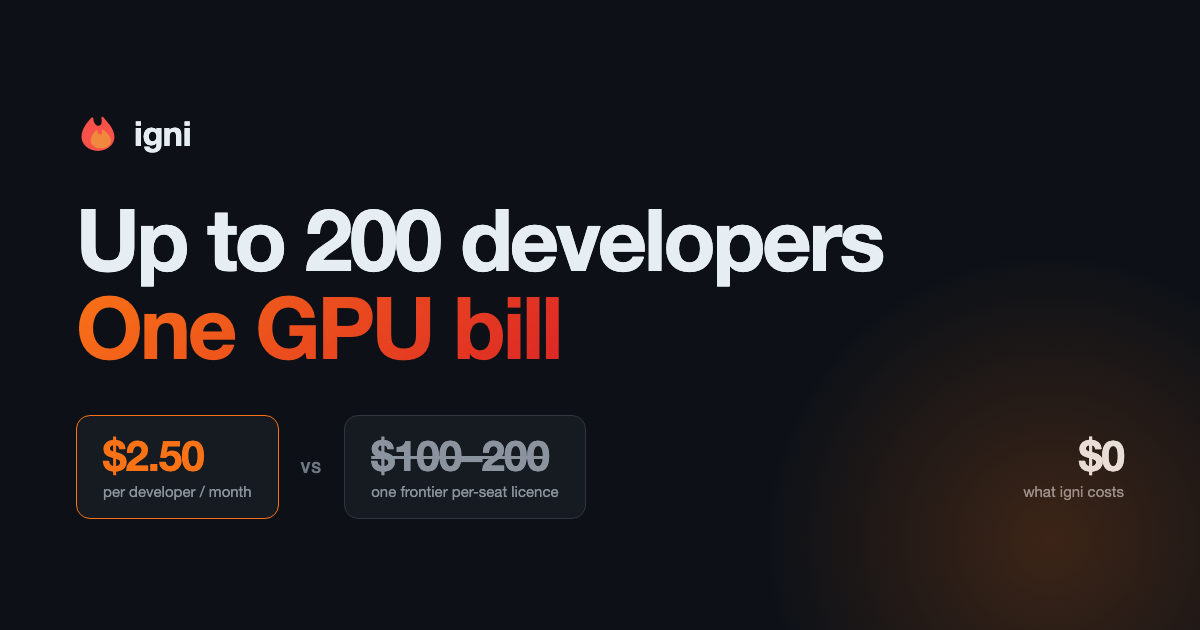
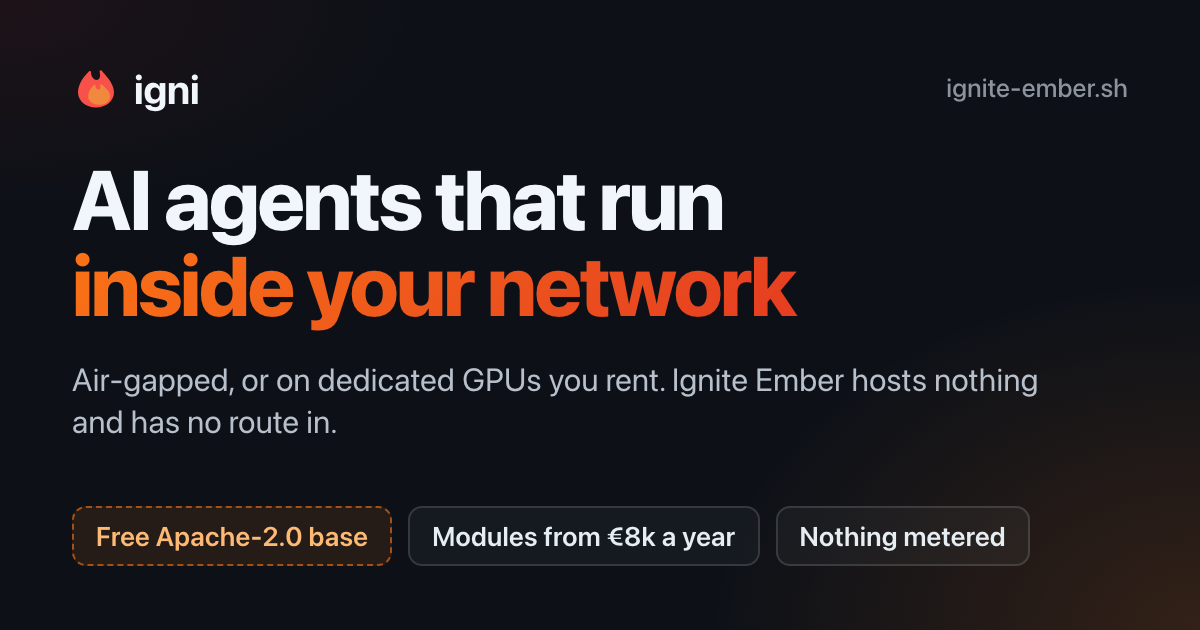
A new link-preview image, rendered from a template
The old og-image still sold "$2.50 per developer / One GPU bill". The
new one carries the landing page's headline, "AI agents that run inside
your network", its sub-line and three facts the page states: free
Apache-2.0 base, modules from €8k a year, nothing metered. It is drawn
from scripts/og-image/template.html with Playwright's Chromium
(`npm run og-image`), and sized to read at 600×315. og:image:alt and a
new twitter:image:alt describe it.

diff --git a/scripts/og-image/template.html b/scripts/og-image/template.html
@@ -1,0 +1,82 @@
+<!doctype html>
+<!--
+  The link-preview image, public/og-image.png (1200×630).
+  Render with `npm run og-image`. Every claim here is on the landing page
+  (src/pages/LandingPage.tsx): keep it that way, and re-render when the
+  hero changes. Text is sized to stay readable at half size (600×315),
+  which is how most chat apps show it.
+-->
+<html lang="en">
+<head>
+<meta charset="utf-8" />
+<style>
+  * { box-sizing: border-box; margin: 0; padding: 0; }
+  html, body { width: 1200px; height: 630px; }
+  body {
+    font-family: -apple-system, BlinkMacSystemFont, "Segoe UI", "Noto Sans", Helvetica, Arial, sans-serif;
+    background:
+      radial-gradient(ellipse 700px 500px at 100% 100%, rgba(249, 115, 22, 0.16), transparent 70%),
+      radial-gradient(ellipse 600px 300px at 0% 0%, rgba(220, 38, 38, 0.08), transparent 70%),
+      #0d1117;
+    color: #f0f6fc;
+    padding: 64px 72px;
+    display: flex;
+    flex-direction: column;
+    -webkit-font-smoothing: antialiased;
+  }
+  .brand { display: flex; align-items: center; gap: 14px; font-size: 40px; font-weight: 700; letter-spacing: -0.5px; }
+  .brand svg { width: 48px; height: 48px; }
+  h1 {
+    margin-top: 44px;
+    font-size: 84px;
+    line-height: 1.02;
+    font-weight: 800;
+    letter-spacing: -2.5px;
+  }
+  h1 .grad {
+    display: block;
+    background: linear-gradient(135deg, #F97316, #DC2626);
+    -webkit-background-clip: text;
+    background-clip: text;
+    color: transparent;
+    padding-bottom: 6px;
+  }
+  .sub {
+    margin-top: 26px;
+    font-size: 32px;
+    line-height: 1.3;
+    color: #b7c0cb;
+    max-width: 1000px;
+  }
+  .row { margin-top: auto; display: flex; gap: 16px; }
+  .chip {
+    font-size: 27px;
+    font-weight: 600;
+    padding: 12px 22px;
+    border-radius: 14px;
+    border: 2px solid rgba(240, 246, 252, 0.14);
+    background: rgba(240, 246, 252, 0.04);
+    color: #e6edf3;
+  }
+  .chip--accent { border: 2px dashed rgba(249, 115, 22, 0.6); background: rgba(249, 115, 22, 0.1); color: #fdba74; }
+  .url { position: absolute; top: 72px; right: 72px; font-size: 26px; color: #8b949e; font-weight: 500; }
+</style>
+</head>
+<body>
+  <div class="brand">
+    <svg viewBox="0 0 16 16" fill="none" aria-hidden="true">
+      <path d="M7.998 14.5c-3.312 0-6-2.246-6-5.014 0-3.047 2.262-5.674 3.625-7.018.27-.266.717-.058.717.318 0 1.335.877 2.562 1.753 2.562.645 0 .972-.379 1.096-.65.258-.564.2-1.363.027-2.043-.098-.387.3-.726.65-.498C10.87 3.534 14 6.186 14 9.486c0 2.768-2.688 5.014-6.002 5.014z" fill="#f85149"/>
+      <path d="M8.7 13.563c-1.822 0-3.3-1.235-3.3-2.758 0-1.677 1.244-3.122 1.994-3.862.149-.146.394-.032.394.175 0 .734.482 1.41.964 1.41.355 0 .534-.209.603-.358.142-.31.11-.75.015-1.124-.054-.213.165-.4.357-.274 1.266.894 2.987 2.354 2.987 4.033 0 1.523-1.479 2.758-3.014 2.758z" fill="#f0883e"/>
+    </svg>
+    igni
+  </div>
+  <div class="url">ignite-ember.sh</div>
+  <h1>AI agents that run <span class="grad">inside your network</span></h1>
+  <p class="sub">Air-gapped, or on dedicated GPUs you rent. Ignite&nbsp;Ember hosts nothing and has no route in.</p>
+  <div class="row">
+    <span class="chip chip--accent">Free Apache-2.0 base</span>
+    <span class="chip">Modules from €8k a year</span>
+    <span class="chip">Nothing metered</span>
+  </div>
+</body>
+</html>

diff --git a/index.html b/index.html
@@ -36,7 +36,7 @@
     <meta property="og:image" content="https://ignite-ember.sh/og-image.png" />
     <meta property="og:image:width" content="1200" />
     <meta property="og:image:height" content="630" />
-    <meta property="og:image:alt" content="igni — AI agents that run inside your network." />
+    <meta property="og:image:alt" content="igni — AI agents that run inside your network. Air-gapped, or on dedicated GPUs you rent; Ignite Ember hosts nothing and has no route in. Free Apache-2.0 base, modules from €8k a year, nothing metered." />
     <meta property="og:site_name" content="igni" />
 
     <!-- Twitter Card -->
@@ -44,6 +44,7 @@
     <meta name="twitter:title" content="igni — AI agents that run inside your network" />
     <meta name="twitter:description" content="Agents for every team and models trained on your own data, inside your network. The base is free under Apache-2.0; paid modules from €8k a year, nothing metered." />
     <meta name="twitter:image" content="https://ignite-ember.sh/og-image.png" />
+    <meta name="twitter:image:alt" content="igni — AI agents that run inside your network. Air-gapped, or on dedicated GPUs you rent; Ignite Ember hosts nothing and has no route in. Free Apache-2.0 base, modules from €8k a year, nothing metered." />
 
     <!-- Structured Data -->
     <script type="application/ld+json">
